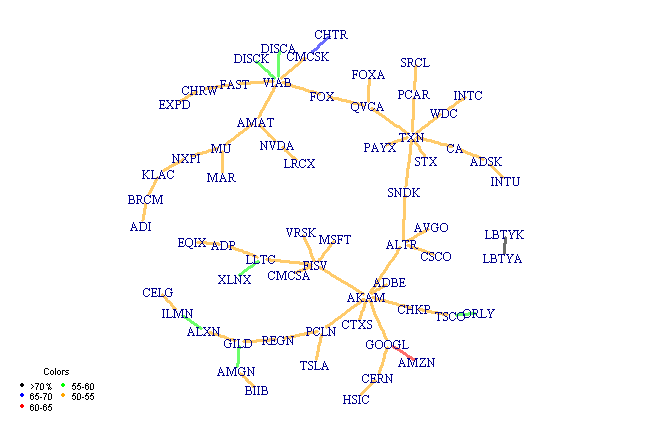
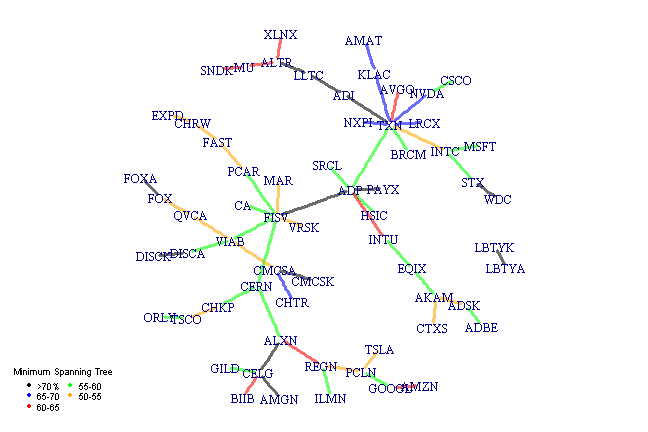
update blog post

diff --git a/_posts/2015-03-08-Minimum-Spanning-Tree.md b/_posts/2015-03-08-Minimum-Spanning-Tree.md
@@ -88,7 +88,7 @@ Minimum Spanning Tree based on Pearson Correlation for Nasdaq 100 Components bas
 plot.cor(ret, 0.5)
 {% endhighlight %}
 
-![plot of chunk plot-2](/public/images/2015-03-08-Minimum-Spanning-Tree/plot-2-1.png) 
+![plot of chunk plot-2](/public/images/2015-03-08-Minimum-Spanning-Tree/plot-2-1.png) ![plot of chunk plot-2](/public/images/2015-03-08-Minimum-Spanning-Tree/plot-2-2.png) 
 
 Next let's get intraday 1 minute historical quotes and visualize correlation based on the last 5 days:
 
@@ -141,7 +141,7 @@ Minimum Spanning Tree based on Pearson Correlation for Nasdaq 100 Components bas
 plot.cor(ret, 0.5)
 {% endhighlight %}
 
-![plot of chunk plot-3](/public/images/2015-03-08-Minimum-Spanning-Tree/plot-3-1.png) 
+![plot of chunk plot-3](/public/images/2015-03-08-Minimum-Spanning-Tree/plot-3-1.png) ![plot of chunk plot-3](/public/images/2015-03-08-Minimum-Spanning-Tree/plot-3-2.png) 
 
 Helper functions:
 
@@ -170,21 +170,43 @@ clean.cor = function(ret, threshold = 0.5) {
 plot.cor = function(ret, threshold = 0.5) {
 	cor_mat = clean.cor(ret, threshold)
 
+	transform.fn = function(x) x
+	transform.fn = function(x) sqrt(2.0 * ( 1 - x ) )
+	transform.fn = function(x) 1 - abs( x )
+			
+	dist = transform.fn( cor_mat )
+		dist[cor_mat == 0] = 0
+	
 	load.packages('igraph')
-	graph = graph.adjacency(cor_mat, weighted=TRUE, mode='upper')
+	graph = graph.adjacency(dist, weighted=TRUE, mode='upper')
 	mst = minimum.spanning.tree(graph)
 
-	E(mst)[ weight>0.7 ]$color = col.add.alpha('black',150)
-	E(mst)[ weight>=0.65 & weight<0.7 ]$color = col.add.alpha('blue',150)
-	E(mst)[ weight>=0.6 & weight<0.65 ]$color = col.add.alpha('red',150)
-	E(mst)[ weight>=0.55 & weight<0.6 ]$color = col.add.alpha('green',150)
-	E(mst)[ weight<0.55 ]$color = col.add.alpha('orange',150)
-
+	breaks = c(0,55,60,65,70,100)
+	cols = spl('black,blue,red,green,orange')
+	labels = 1:5
+	
+	factor = cut(E(mst)$weight, breaks = transform.fn(breaks/100), labels = labels)
+	for(i in labels)
+		E(mst)[ factor == i ]$color = col.add.alpha(cols[i],150)
+	
 	set.seed(100)
 	par(mar=c(1,1,1,1))
 	plot(mst,vertex.size=5, vertex.color=NA, vertex.frame.color=NA, edge.width = 3) 
+
+	legend('bottomleft', title='Minimum Spanning Tree', cex=0.75, pch=16, bty='n', ncol=2,
+		col=spl('black,blue,red,green,orange'), 
+		legend=spl('>70%,65-70,60-65,55-60,50-55')
+	)	
 	
-	legend('bottomleft', title='Colors', cex=0.75, pch=16, bty='n', ncol=2,
+	# full graph
+	factor = cut(E(graph)$weight, breaks = transform.fn(breaks/100), labels = labels)
+	for(i in labels)
+		E(graph)[ factor == i ]$color = col.add.alpha(cols[i],100)
+	
+	set.seed(100)
+	plot(graph,vertex.size=5, vertex.color=NA, vertex.frame.color=NA, edge.width = 3) 
+	
+	legend('bottomleft', title='Full Graph', cex=0.75, pch=16, bty='n', ncol=2,
 		col=spl('black,blue,red,green,orange'), 
 		legend=spl('>70%,65-70,60-65,55-60,50-55')
 	)	
